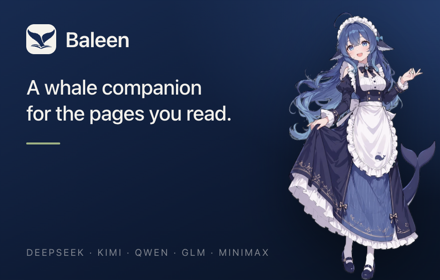
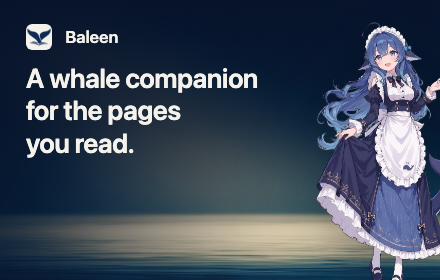
feat(store): rebuild promo tiles on a seascape backdrop
Store art now sits on the Midjourney sea plate graded toward cream, with
the horizon low enough to leave the copy and character clear. Adds a
1200x630 OG card and refreshes the menu screenshot to the 2.1.0 popup;
the render source lives in store/src so the layout can be re-rendered.

diff --git a/store/src/promo.html b/store/src/promo.html
@@ -1,0 +1,194 @@
+<!doctype html>
+<html lang="en">
+<head>
+<meta charset="utf-8">
+<title>Baleen promo boards</title>
+<style>
+  :root {
+    --cream: #f5f2ec;
+    --navy: #0e2a55;
+    --sage: #849f5d;
+    --sage-light: #9ab86e;
+    --deep: #0a1a3a;
+  }
+  * { box-sizing: border-box; }
+  html, body { margin: 0; padding: 0; background: #000; overflow: hidden; }
+  body { font-family: -apple-system, BlinkMacSystemFont, "SF Pro Display", "Helvetica Neue", Arial, sans-serif; }
+  .board {
+    position: relative;
+    overflow: hidden;
+    display: none;
+    color: var(--cream);
+    background-size: cover;
+    background-position: center;
+  }
+  body[data-board="marquee"] .marquee,
+  body[data-board="tile"] .tile,
+  body[data-board="og"] .og { display: block; }
+
+  .board.marquee { width: 1400px; height: 560px; background-image: url(backdrop-marquee.png); }
+  .board.tile    { width: 440px;  height: 280px; background-image: url(backdrop-tile.png); }
+  .board.og      { width: 1200px; height: 630px; background-image: url(backdrop-og.png); }
+
+  .scrim { position: absolute; inset: 0; }
+  .marquee .scrim, .og .scrim {
+    background:
+      linear-gradient(180deg, rgba(7, 17, 40, 0.90) 0%, rgba(7, 17, 40, 0.68) 38%, rgba(7, 17, 40, 0.28) 60%, rgba(7, 17, 40, 0) 74%),
+      linear-gradient(90deg, rgba(7, 17, 40, 0.74) 0%, rgba(7, 17, 40, 0.42) 32%, rgba(7, 17, 40, 0.06) 60%, rgba(7, 17, 40, 0) 76%);
+  }
+  .tile .scrim {
+    background:
+      linear-gradient(180deg, rgba(7, 17, 40, 0.86) 0%, rgba(7, 17, 40, 0.56) 44%, rgba(7, 17, 40, 0.16) 66%, rgba(7, 17, 40, 0) 80%),
+      linear-gradient(90deg, rgba(7, 17, 40, 0.72) 0%, rgba(7, 17, 40, 0.34) 40%, rgba(7, 17, 40, 0) 72%);
+  }
+
+  .copy { position: absolute; }
+  .marquee .copy { left: 76px; top: 58px; width: 660px; }
+  .og .copy { left: 64px; top: 54px; width: 620px; }
+  .tile .copy { left: 26px; top: 24px; width: 286px; }
+
+  .brand { display: flex; align-items: center; gap: 13px; }
+  .brand img { display: block; border-radius: 9px; }
+  .marquee .brand img, .og .brand img { width: 40px; height: 40px; }
+  .tile .brand img { width: 26px; height: 26px; border-radius: 6px; gap: 8px; }
+  .wordmark { font-weight: 600; letter-spacing: -0.01em; }
+  .marquee .wordmark, .og .wordmark { font-size: 27px; }
+  .tile .wordmark { font-size: 17px; }
+
+  .eyebrow {
+    text-transform: uppercase;
+    font-weight: 600;
+    color: rgba(245, 242, 236, 0.66);
+  }
+  .marquee .eyebrow { margin-top: 40px; font-size: 11px; letter-spacing: 0.34em; }
+  .og .eyebrow { margin-top: 34px; font-size: 10.5px; letter-spacing: 0.32em; }
+  .tile .eyebrow { margin-top: 26px; font-size: 8px; letter-spacing: 0.26em; }
+
+  h1 { margin: 0; font-weight: 600; letter-spacing: -0.022em; }
+  .marquee h1 { margin-top: 15px; font-size: 62px; line-height: 1.05; }
+  .og h1 { margin-top: 14px; font-size: 56px; line-height: 1.06; }
+  .tile h1 { margin-top: 12px; font-size: 27px; line-height: 1.2; letter-spacing: -0.017em; }
+
+  .sub { color: rgba(245, 242, 236, 0.78); font-weight: 400; }
+  .marquee .sub { margin-top: 22px; font-size: 17px; line-height: 1.55; max-width: 486px; }
+  .og .sub { margin-top: 20px; font-size: 16px; line-height: 1.55; max-width: 440px; }
+
+  .providers {
+    text-transform: uppercase;
+    font-weight: 600;
+    color: rgba(245, 242, 236, 0.6);
+    white-space: nowrap;
+  }
+  .marquee .providers { position: absolute; left: 76px; bottom: 132px; font-size: 11px; letter-spacing: 0.2em; color: rgba(245, 242, 236, 0.74); }
+  .og .providers { position: absolute; left: 64px; bottom: 138px; font-size: 10px; letter-spacing: 0.18em; color: rgba(245, 242, 236, 0.74); }
+  .tile .providers { display: none; }
+
+  .girl { position: absolute; display: block; filter: drop-shadow(0 26px 44px rgba(4, 12, 28, 0.5)); }
+  .marquee .girl { right: 74px; bottom: -14px; height: 552px; }
+  .og .girl { right: 42px; bottom: -12px; height: 612px; }
+  .tile .girl { right: -24px; bottom: -10px; height: 268px; }
+
+  .card {
+    position: absolute;
+    border-radius: 15px;
+    background: rgba(250, 248, 243, 0.97);
+    box-shadow: 0 22px 52px rgba(4, 12, 28, 0.38);
+    color: #22334d;
+  }
+  .marquee .card { left: 694px; top: 158px; width: 312px; padding: 15px 16px 13px; }
+  .og .card { left: 512px; top: 348px; width: 292px; padding: 14px 15px 12px; }
+
+  .card-head { display: flex; align-items: center; gap: 8px; }
+  .card-head img { width: 15px; height: 15px; border-radius: 4px; }
+  .card-head .name { font-size: 12px; font-weight: 600; color: var(--navy); letter-spacing: -0.005em; }
+  .card-head .model { margin-left: auto; font-size: 10.5px; color: rgba(34, 51, 77, 0.5); }
+  .bubble {
+    margin-top: 11px;
+    padding: 7px 10px;
+    border-radius: 8px;
+    background: #e9efd9;
+    color: #2b3c22;
+    font-size: 12.5px;
+    line-height: 1.4;
+  }
+  .answer { margin-top: 10px; font-size: 12.5px; line-height: 1.5; color: #2a3a54; }
+  .card-foot {
+    display: flex; align-items: center; gap: 6px;
+    margin-top: 12px; padding-top: 9px;
+    border-top: 1px solid rgba(14, 42, 85, 0.1);
+    font-size: 10.5px; color: rgba(34, 51, 77, 0.56);
+  }
+  .dot { width: 6px; height: 6px; border-radius: 50%; background: var(--sage); }
+</style>
+</head>
+<body data-board="marquee">
+
+  <section class="board marquee">
+    <div class="scrim"></div>
+    <img class="girl" src="../../public/characters/baleen/full.webp" alt="">
+    <div class="card">
+      <div class="card-head">
+        <img src="../../public/icons/32.png" alt="">
+        <span class="name">Baleen</span>
+        <span class="model">DeepSeek V4 Pro</span>
+      </div>
+      <div class="bubble">What is baleen made of?</div>
+      <div class="answer">Keratin — the same protein as your hair and fingernails. A rack of plates hangs from the upper jaw.</div>
+      <div class="card-foot"><span class="dot"></span>Filter feeding · answered from this page</div>
+    </div>
+    <div class="copy">
+      <div class="brand">
+        <img src="../../public/icons/128.png" alt="">
+        <span class="wordmark">Baleen</span>
+      </div>
+      <div class="eyebrow">Reading companion</div>
+      <h1>Chat with the page<br>you're reading.</h1>
+      <div class="sub">Highlight a passage, ask a question, or summarise the whole page. Bring your own key — no account, no backend.</div>
+    </div>
+    <div class="providers">DeepSeek · Kimi · Qwen · GLM · MiniMax</div>
+  </section>
+
+  <section class="board tile">
+    <div class="scrim"></div>
+    <img class="girl" src="../../public/characters/baleen/full.webp" alt="">
+    <div class="copy">
+      <div class="brand">
+        <img src="../../public/icons/128.png" alt="">
+        <span class="wordmark">Baleen</span>
+      </div>
+      <h1>A whale companion<br>for the pages<br>you read.</h1>
+    </div>
+    <div class="providers">DeepSeek · Kimi · Qwen · GLM · MiniMax</div>
+  </section>
+
+  <section class="board og">
+    <div class="scrim"></div>
+    <img class="girl" src="../../public/characters/baleen/full.webp" alt="">
+    <div class="card">
+      <div class="card-head">
+        <img src="../../public/icons/32.png" alt="">
+        <span class="name">Baleen</span>
+        <span class="model">DeepSeek V4 Pro</span>
+      </div>
+      <div class="bubble">What is baleen made of?</div>
+      <div class="answer">Keratin — the same protein as your hair and fingernails. A rack of plates hangs from the upper jaw.</div>
+      <div class="card-foot"><span class="dot"></span>Filter feeding · answered from this page</div>
+    </div>
+    <div class="copy">
+      <div class="brand">
+        <img src="../../public/icons/128.png" alt="">
+        <span class="wordmark">Baleen</span>
+      </div>
+      <div class="eyebrow">Reading companion</div>
+      <h1>Chat with the page<br>you're reading.</h1>
+      <div class="sub">Highlight a passage, ask a question, or summarise the whole page. Bring your own key — no account, no backend.</div>
+    </div>
+    <div class="providers">DeepSeek · Kimi · Qwen · GLM · MiniMax</div>
+  </section>
+
+<script>
+  const board = location.hash.slice(1) || 'marquee';
+  document.body.dataset.board = board;
+</script>
+</body>
+</html>
